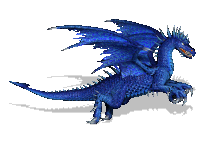
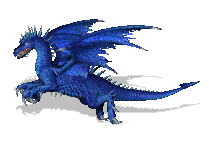
Updated level 1 - will fix collision box

diff --git a/Scripts/objects/dragonX.js b/Scripts/objects/dragonX.js
@@ -6,17 +6,17 @@ var __extends = (this && this.__extends) || function (d, b) {
 var objects;
 (function (objects) {
     // FIREBALL CLASS ++++++++++++++++++++++++++++++++++++
-    var Fireball = (function (_super) {
-        __extends(Fireball, _super);
+    var DragonX = (function (_super) {
+        __extends(DragonX, _super);
         // PRIVATE INSTANCE VARIABLES +++++++++++++++++
         // CONSTRUCTOR METHOD +++++++++++++++++++++++++
-        function Fireball() {
-            _super.call(this, "dragonXY");
+        function DragonX() {
+            _super.call(this, "dragonX");
             this._reset(this._leftBounds);
-            this.name = "dragonXY";
+            this.name = "dragonX";
         }
         // PRIVATE METHODS ++++++++++++++++++++++++++++
-        Fireball.prototype._checkBounds = function (value) {
+        DragonX.prototype._checkBounds = function (value) {
             // check to see if the top of the fireball 
             // is outside the viewport         
             if (this.x >= value) {
@@ -24,22 +24,20 @@ var objects;
             }
         };
         // reset the fireball offscreen
-        Fireball.prototype._reset = function (value) {
+        DragonX.prototype._reset = function (value) {
             this._speed.x = Math.floor(Math.random() * 5 + 1) + 5;
-            this._speed.y = Math.floor(Math.random() * 4 + 1) - 2;
+            //this._speed.y = Math.floor(Math.random() * 4 + 1) - 2;
             this.x = value;
             this.y = Math.floor(Math.random() * this._bottomBounds) + this._topBounds;
         };
         // PUBLIC METHODS ++++++++++++++++++++++++++++++
-        Fireball.prototype.update = function () {
-            // scroll the fireball down the screen
+        DragonX.prototype.update = function () {
             this.x += this._speed.x;
-            this.y += this._speed.y;
             this._checkBounds(this._rightBounds + 100);
         };
-        return Fireball;
+        return DragonX;
     }(objects.GameObject));
-    objects.Fireball = Fireball;
+    objects.DragonX = DragonX;
 })(objects || (objects = {}));
 
-//# sourceMappingURL=fireball.js.map
+//# sourceMappingURL=dragonX.js.map

diff --git a/Scripts/scenes/play.ts b/Scripts/scenes/play.ts
@@ -18,12 +18,15 @@ module scenes {
         public scoreWord: objects.Label;
         public scoreText: objects.Label;
         public lives: number;
+        public resetCount: number;
         
         //PRIVATE INSTANCE VARIABLES ++++++++++++
         private _sky: objects.Sky;
         private _fire: objects.Fire;
         private _fireball: objects.Fireball[];
         private _fireballCount: number;
+        private _dragonX: objects.DragonX[];
+        private _dragonXCount: number;
         private _player: objects.Player;
         private _collision: managers.Collision;
 
@@ -44,10 +47,12 @@ module scenes {
             this.lives = 10;
             
             // Set _fireballCount Count
-            this._fireballCount = 8;
+            this._fireballCount = 1;
+            this._dragonXCount = 3;
             
             // Instantiate _fireball array
             this._fireball = new Array<objects.Fireball>();
+            this._dragonX = new Array<objects.DragonX>();
                 
             // added _sky to the scene
             this._sky = new objects.Sky();
@@ -65,6 +70,11 @@ module scenes {
             for (var ball: number = 0; ball < this._fireballCount; ball++) {
                 this._fireball[ball] = new objects.Fireball();
                 this.addChild(this._fireball[ball]);
+            }
+            
+            for (var dragon: number = 0; dragon < this._dragonXCount; dragon++) {
+                this._dragonX[dragon] = new objects.DragonX();
+                this.addChild(this._dragonX[dragon]);
             }
             
             // added collision manager to the scene
@@ -118,6 +128,11 @@ module scenes {
             this._fireball.forEach(ball => {
                 ball.update();
                 this._collision.check(ball);
+            });
+            
+            this._dragonX.forEach(dragon => {
+                dragon.update();
+                this._collision.check(dragon);
             });
 
             this._collision.check(this._fire);

diff --git a/Scripts/scenes/play.js b/Scripts/scenes/play.js
@@ -29,9 +29,11 @@ var scenes;
             this.score = 0;
             this.lives = 10;
             // Set _fireballCount Count
-            this._fireballCount = 8;
+            this._fireballCount = 1;
+            this._dragonXCount = 3;
             // Instantiate _fireball array
             this._fireball = new Array();
+            this._dragonX = new Array();
             // added _sky to the scene
             this._sky = new objects.Sky();
             this.addChild(this._sky);
@@ -45,6 +47,10 @@ var scenes;
             for (var ball = 0; ball < this._fireballCount; ball++) {
                 this._fireball[ball] = new objects.Fireball();
                 this.addChild(this._fireball[ball]);
+            }
+            for (var dragon = 0; dragon < this._dragonXCount; dragon++) {
+                this._dragonX[dragon] = new objects.DragonX();
+                this.addChild(this._dragonX[dragon]);
             }
             // added collision manager to the scene
             this._collision = new managers.Collision(this._player);
@@ -77,6 +83,10 @@ var scenes;
             this._fireball.forEach(function (ball) {
                 ball.update();
                 _this._collision.check(ball);
+            });
+            this._dragonX.forEach(function (dragon) {
+                dragon.update();
+                _this._collision.check(dragon);
             });
             this._collision.check(this._fire);
             this.scoreText.text = this.score.toString();

diff --git a/Scripts/objects/dragonX.ts b/Scripts/objects/dragonX.ts
@@ -1,0 +1,39 @@
+module objects {
+    // FIREBALL CLASS ++++++++++++++++++++++++++++++++++++
+    export class DragonX extends objects.GameObject {
+        // PRIVATE INSTANCE VARIABLES +++++++++++++++++
+        
+        // CONSTRUCTOR METHOD +++++++++++++++++++++++++
+        constructor() {
+            super("dragonX");
+            
+           this._reset(this._leftBounds);
+           this.name = "dragonX";
+        }
+        
+        // PRIVATE METHODS ++++++++++++++++++++++++++++
+        protected _checkBounds(value:number):void {
+            // check to see if the top of the fireball 
+            // is outside the viewport         
+            if(this.x >= value) {
+                this._reset(this._leftBounds - 100);
+            }
+        }
+        
+        // reset the fireball offscreen
+        protected _reset(value:number):void {
+            this._speed.x = Math.floor(Math.random() * 5 + 1) + 5;
+            //this._speed.y = Math.floor(Math.random() * 4 + 1) - 2;
+            
+            this.x = value;
+            this.y = Math.floor(Math.random() * this._bottomBounds) + this._topBounds;
+        }
+        
+        
+        // PUBLIC METHODS ++++++++++++++++++++++++++++++
+        public update():void {
+            this.x += this._speed.x;
+            this._checkBounds(this._rightBounds + 100);
+        }
+    }
+}

diff --git a/Scripts/core/game.ts b/Scripts/core/game.ts
@@ -39,6 +39,8 @@ var assetData: objects.Asset[] = [
     { id: "dragon", src: "../../Assets/images/dragon.png" },
     { id: "fire", src: "../../Assets/images/fire.png" },
     { id: "fireball", src: "../../Assets/images/fireball.png" },
+    { id: "dragonX", src: "../../Assets/images/enemy2.png" },
+    { id: "dragonXY", src: "../../Assets/images/enemy4.png" },
     { id: "background", src: "../../Assets/images/background.png" },
     { id: "gameover", src: "../../Assets/images/gameover.png" },
     { id: "instruction", src: "../../Assets/images/instruction.png" },

diff --git a/Scripts/core/game.js b/Scripts/core/game.js
@@ -34,6 +34,8 @@ var assetData = [
     { id: "dragon", src: "../../Assets/images/dragon.png" },
     { id: "fire", src: "../../Assets/images/fire.png" },
     { id: "fireball", src: "../../Assets/images/fireball.png" },
+    { id: "dragonX", src: "../../Assets/images/enemy2.png" },
+    { id: "dragonXY", src: "../../Assets/images/enemy4.png" },
     { id: "background", src: "../../Assets/images/background.png" },
     { id: "gameover", src: "../../Assets/images/gameover.png" },
     { id: "instruction", src: "../../Assets/images/instruction.png" },

diff --git a/Scripts/managers/collision.js b/Scripts/managers/collision.js
@@ -38,7 +38,7 @@ var managers;
                     createjs.Sound.play("hit");
                 }
                 // check if it's a fireball hit
-                if (object.name === "fireball") {
+                if (object.name === "dragonXY" || object.name === "dragonX") {
                     object.reset();
                     play.lives--;
                     createjs.Sound.play("collect");

diff --git a/Scripts/objects/fireball.ts b/Scripts/objects/fireball.ts
@@ -5,10 +5,10 @@ module objects {
         
         // CONSTRUCTOR METHOD +++++++++++++++++++++++++
         constructor() {
-            super("fireball");
+            super("dragonXY");
             
            this._reset(this._leftBounds);
-           this.name = "fireball";
+           this.name = "dragonXY";
         }
         
         // PRIVATE METHODS ++++++++++++++++++++++++++++

diff --git a/Scripts/managers/collision.ts b/Scripts/managers/collision.ts
@@ -48,7 +48,7 @@ module managers {
                 }
                 
                 // check if it's a fireball hit
-                if(object.name === "fireball") {
+                if(object.name === "dragonXY" || object.name === "dragonX") {
                     object.reset();
                     play.lives--;
                     createjs.Sound.play("collect");

diff --git a/index.html b/index.html
@@ -32,6 +32,7 @@
     <script src="Scripts/objects/sky.js"></script>
     <script src="Scripts/objects/fire.js"></script>
     <script src="Scripts/objects/fireball.js"></script>
+    <script src="Scripts/objects/dragonx.js"></script>
     <script src="Scripts/objects/player.js"></script>
     <script src="Scripts/managers/collision.js"></script>
 

diff --git a/Scripts/core/_reference.js b/Scripts/core/_reference.js
@@ -9,6 +9,7 @@
 /// <reference path="../objects/fire.ts"/>
 /// <reference path="../objects/fireball.ts"/>
 /// <reference path="../objects/player.ts" />
+/// <reference path="../objects/dragonX.ts" />
 /// <reference path="../managers/collision.ts" />
 /// <reference path="../scenes/end.ts" />
 /// <reference path="../scenes/play.ts" />

diff --git a/Scripts/core/_reference.ts b/Scripts/core/_reference.ts
@@ -12,6 +12,7 @@
 /// <reference path="../objects/fire.ts"/>
 /// <reference path="../objects/fireball.ts"/>
 /// <reference path="../objects/player.ts" />
+/// <reference path="../objects/dragonX.ts" />
 
 /// <reference path="../managers/collision.ts" />
 
